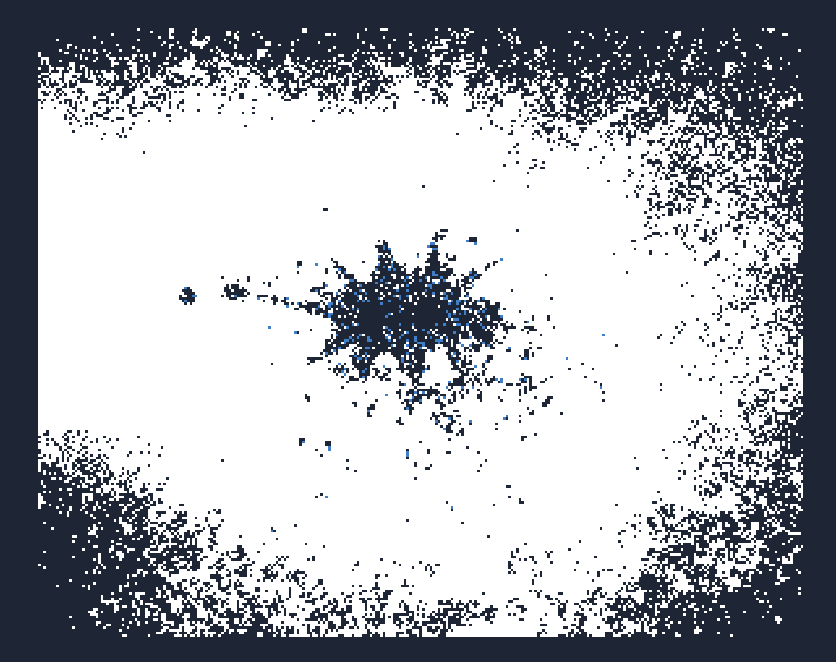
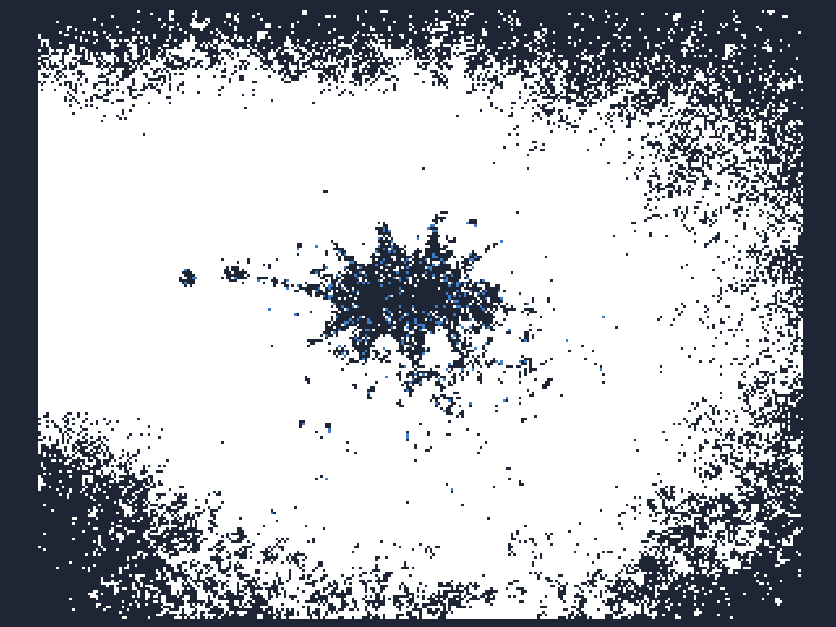
update

diff --git a/docs/src/results.tex b/docs/src/results.tex
@@ -28,9 +28,16 @@ Peaks in this signal are then analyzed by scipy's findpeaks function,
 and the average amount of events with the standard deviation is calculated for each frequency and distance.
 
 We can see the influence of distance and frequency on the average number of events on
-\reffig{fig:dist} and \reffig{fig:freqs} respectively. If we now select one frequency and try to fit it with a curve,
+\reffig{fig:dist} and \reffig{fig:freqs} respectively. The data shows a decreasing trend of the average number of events
+with the increase of distance or frequency. The drop related to the distance can be explained by the perceived intensity
+decrease of the light source with an increasing distance. With an increasing frequency, the camera is not able to capture
+all the changes that are generated by the light source. On very high frequencies and distances, the camera is not able
+to detect any real events at all, as there is more noise generated by the camera itself at this point. This can be observed
+at \reffig{fig:dist_2} with the frequency of $30$ kHz at $3$ meters.
+
+If we now select one frequency and try to fit it with a curve,
 we can see that the data can be approximated with a polynomial or exponential function as shown on \reffig{fig:fit1}.
-The best fit without being too complex, is the inverse square law, which can be expressed as
+The best fit without being too complex is the inverse square law, which can be expressed as
 \begin{equation}
 	\text{intensity} \propto \frac{1}{\text{distance}^2}
 \end{equation}
@@ -83,7 +90,6 @@ of representing the data in a more general way. The inverse square law approxima
 From the manufacturers datasheet for the UV LEDs\footnote{The datasheet of ProLight PM2B-1LLE 1W UV Power LED can be obtained from \url{https://www.tme.eu/Document/9dfb498784ffdd07892a42f4f17c6f37/PM2B-1LLE-DTE.pdf}}
 used in the UVDAR system, we can learn that the LEDs have a lambertian radiation pattern,
 which can be seen on \reffig{fig:lambertian}.
-
 \begin {figure}[htbp]
 	\centering
 	\includegraphics[width=0.75\textwidth]{./fig/plots/lambertian/lambertian.pdf}
@@ -93,12 +99,10 @@ which can be seen on \reffig{fig:lambertian}.
 
 This means that the intensity of the light emmited from the LED decreases with the cosine
 of the angle between the normal of the LED and the direction of the light \refeq{eq:lambertian}.
-
 \begin{equation}
 	I(\theta) = I_0\cos(\theta)
 	\label{eq:lambertian}
 \end{equation}
-
 If we shift those distributions by $\pm 45$ degrees and sum them together, we can see the
 theoretical distribution of the light emmited from the singular UAV arm \reffig{fig:lambert_combined}.
 \begin {figure}[htbp]
@@ -129,10 +133,9 @@ on \reffig{fig:angles}.
   }
 	\label{fig:angles}
 \end{figure}
-
 The data shows a rough approximation of the theoretical distribution on \reffig{fig:lambert_combined},
 but with a drop of intensity at the middle of the distribution. This could be caused
-by the fact that the LEDs, when close to the camera, can be perceived as multiple sources,
+by the fact that the LEDs, when close to the camera, can be perceived as multiple light sources,
 but when moved further away, they merge into one source as shown on \reffig{fig:leds}.
 
 \begin{figure}[htbp]
@@ -147,9 +150,30 @@ but when moved further away, they merge into one source as shown on \reffig{fig:
 	}
 	\caption{
   The light source on one arm of the UAV, consisting of two UV LEDs, blinking at a frequency of 10 Hz,
-  placed at 0.5 m on \reffig{fig:leds_1} and 2 m at \reffig{fig:leds_2}. Star-like shape of
-  the led source is caused by light diffraction that is happening when the intense
-  monochromatic light enters the camera lens aperture.
+  placed at 0.5 m on \reffig{fig:leds_1} and 2 m at \reffig{fig:leds_2}.
   }
 	\label{fig:leds}
+\end{figure}
+What we can also observe from \reffig{fig:leds} are the star-like shapes of the LEDs, which are supposed to be circular.
+Those shapes are caused by light diffraction, which is caused by the aperture blades in the lens of the camera. The number
+of star spikes depend on the number of blades, the set aperture and the light source intensity then causes stars of different
+levels of profoundness.\cite{bhphoto2025star} We can observe this by comparing how profound are the star shapes on different
+frequencies, as shown on \reffig{fig:stars}.
+
+\begin{figure}[htbp]
+	\centering
+	\subfloat[LED blinking at 10 Hz at 1.0 m] {
+	  \includegraphics[width=0.5\textwidth]{./fig/photos/led_10hz.png}
+	  \label{fig:stars_1}
+	}
+	\subfloat[LED blinking at 1 kHz at 1.0 m] {
+	  \includegraphics[width=0.5\textwidth]{./fig/photos/led_1000hz.png}
+	  \label{fig:stars_2}
+	}
+	\caption{
+  Two same LED light sources at 1.0 meters, blinking at 10 Hz and 1 kHz.
+  \reffig{fig:stars_1} shows a visible diffraction star (while being much brighter), while \reffig{fig:stars_2} shows a
+  much more cicular source of light that is not as bright.
+  }
+	\label{fig:stars}
 \end{figure}
